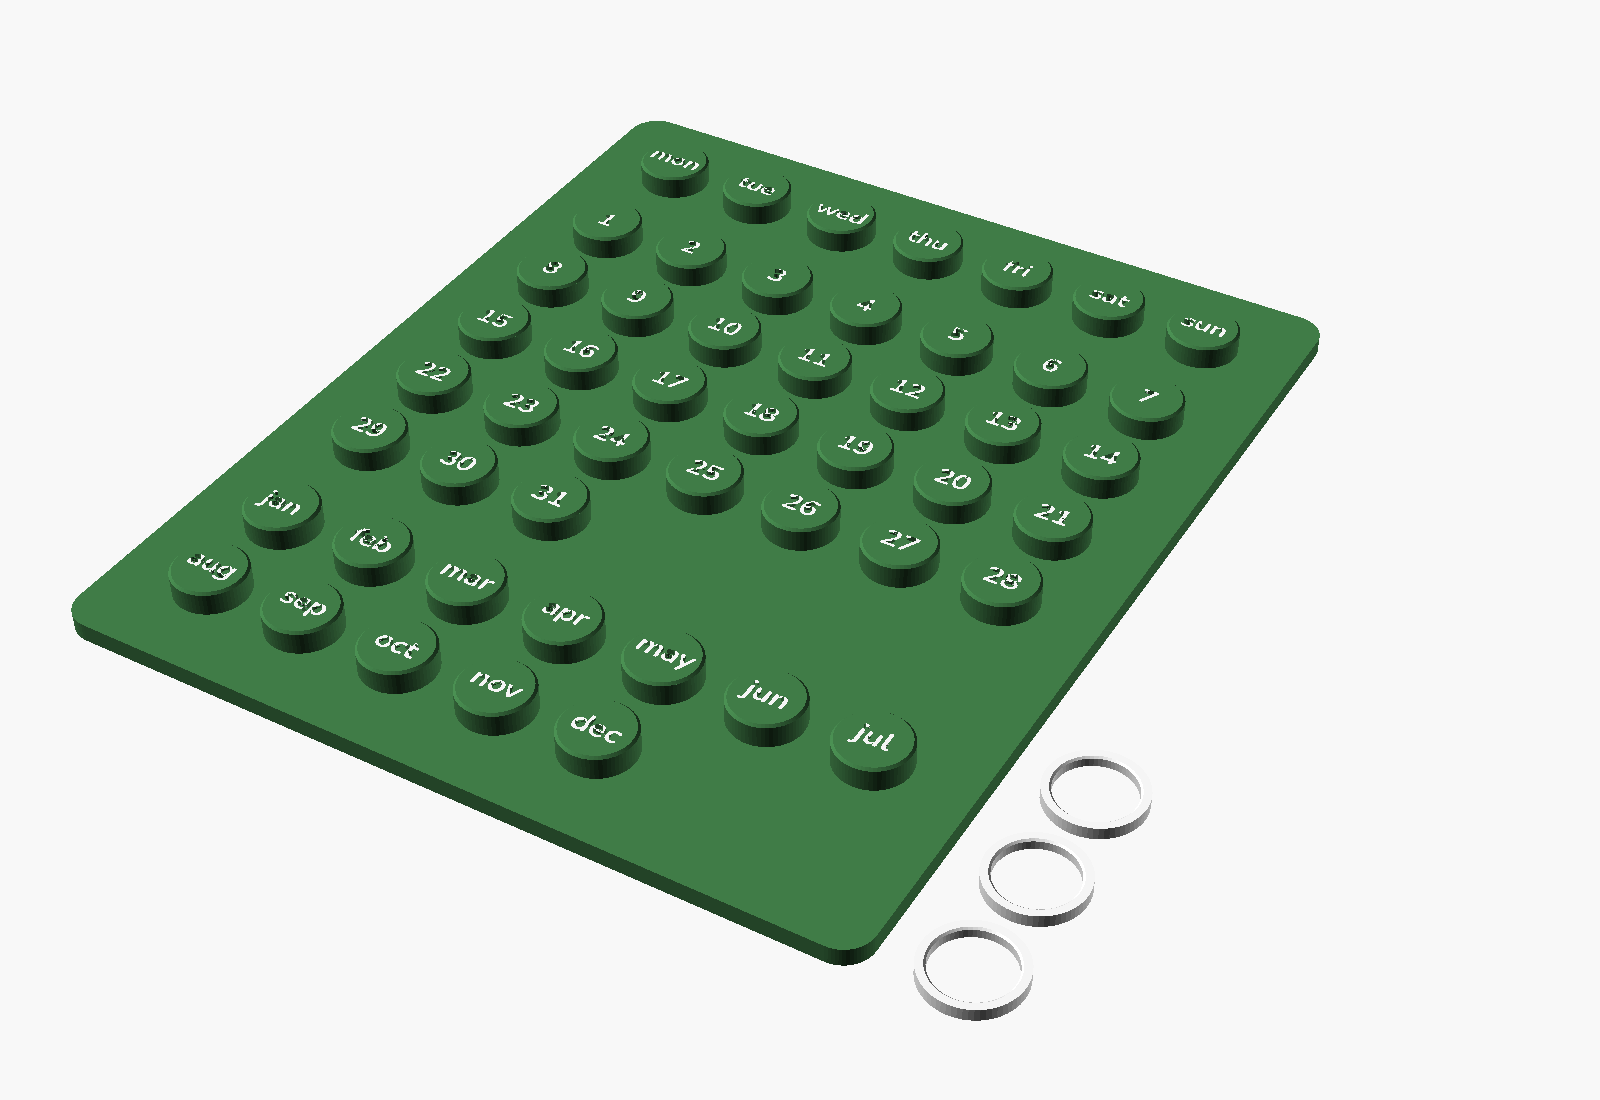
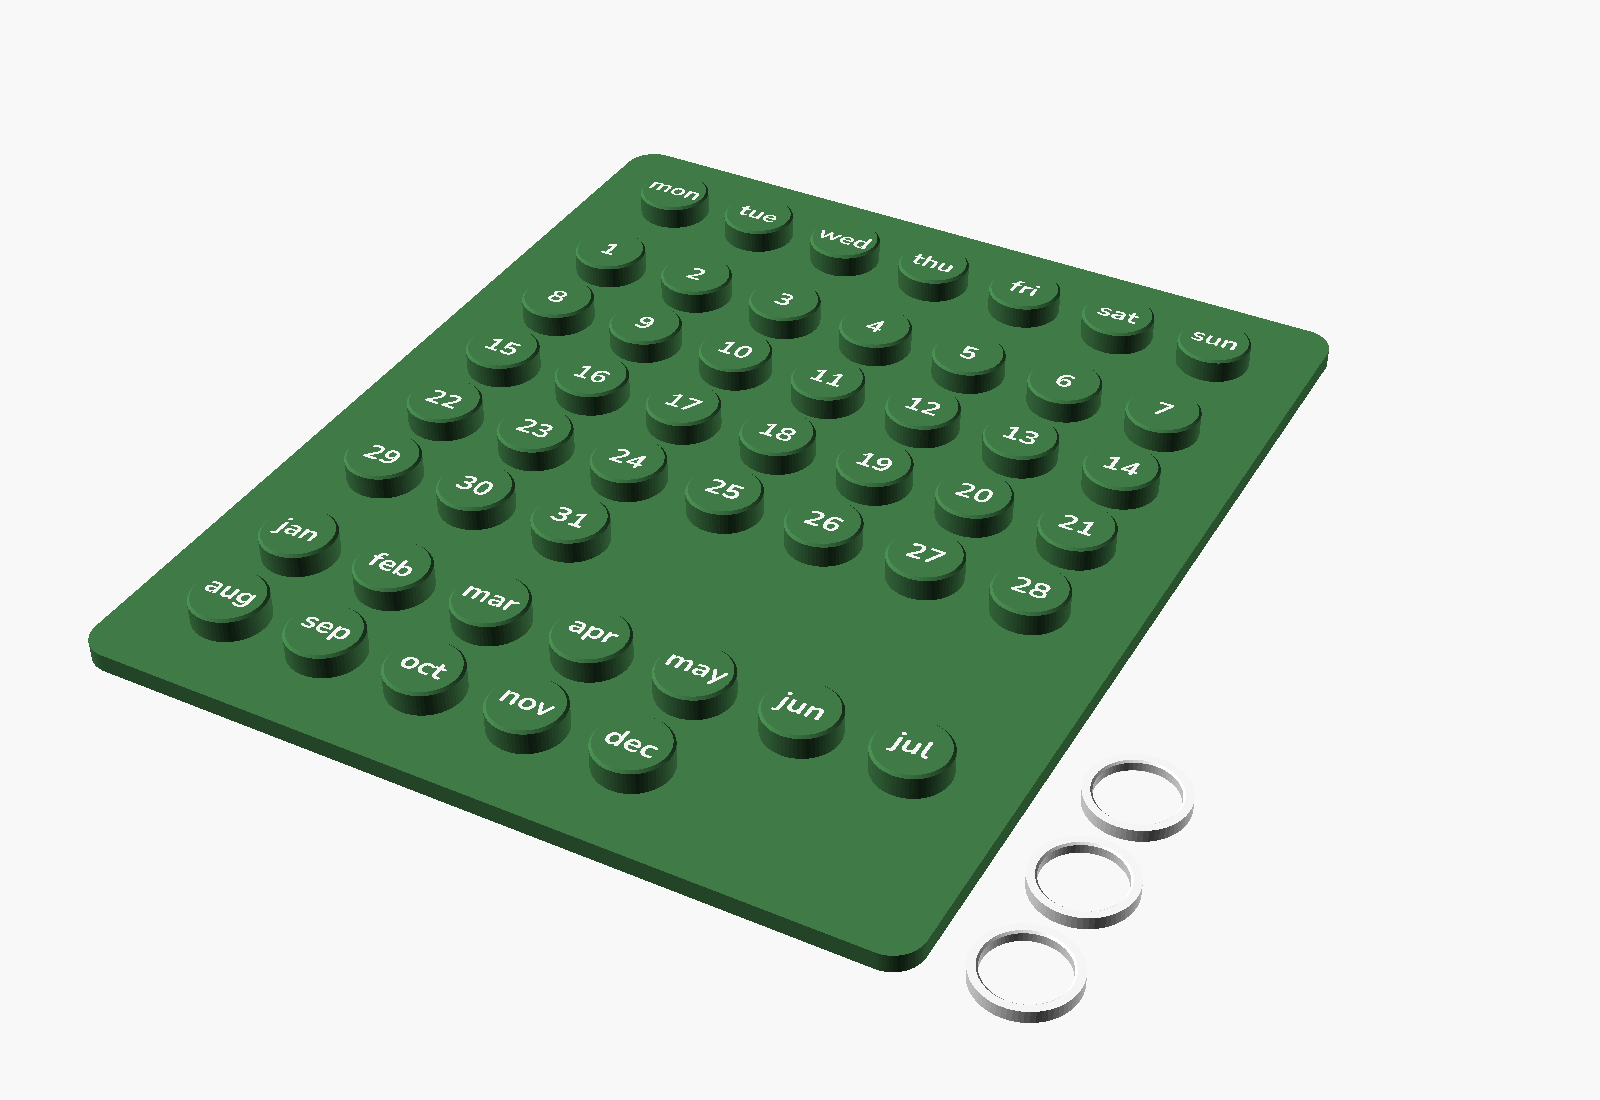
Rerender images without z-fighting, add EN Sunday and RU Monday views

Changed region(s): [[0.0312, 0.0927, 0.8438, 0.9273]]

diff --git a/ringlet-calendar/README.md b/ringlet-calendar/README.md
@@ -6,9 +6,9 @@ A reusable desk calendar: slip one ring over the weekday, one over the date and 
 
 The whole model is parametric. Change the language, the first day of the week, peg size, ring clearance or font, and the layout rebuilds itself.
 
-| English, week starts on Monday | Russian, week starts on Sunday |
-|---|---|
-| ![English](images/top-en.png) | ![Russian](images/top-ru-sun.png) |
+| English, week starts on Monday | English, week starts on Sunday | Russian, week starts on Monday |
+|---|---|---|
+| ![English, Monday](images/top-en.png) | ![English, Sunday](images/top-en-sun.png) | ![Russian, Monday](images/top-ru.png) |
 
 ## Files
 
